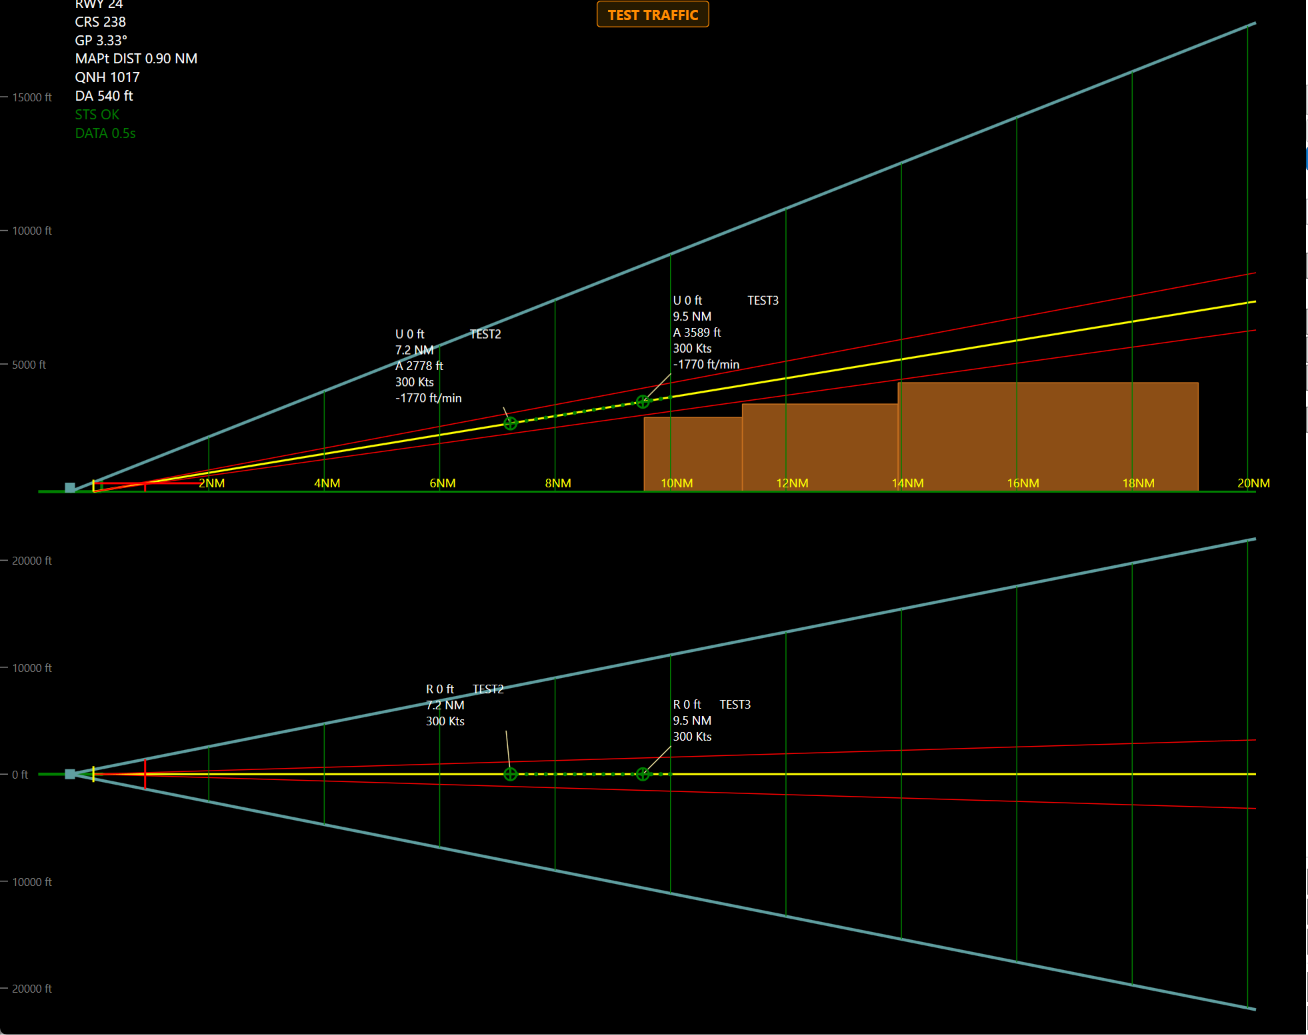
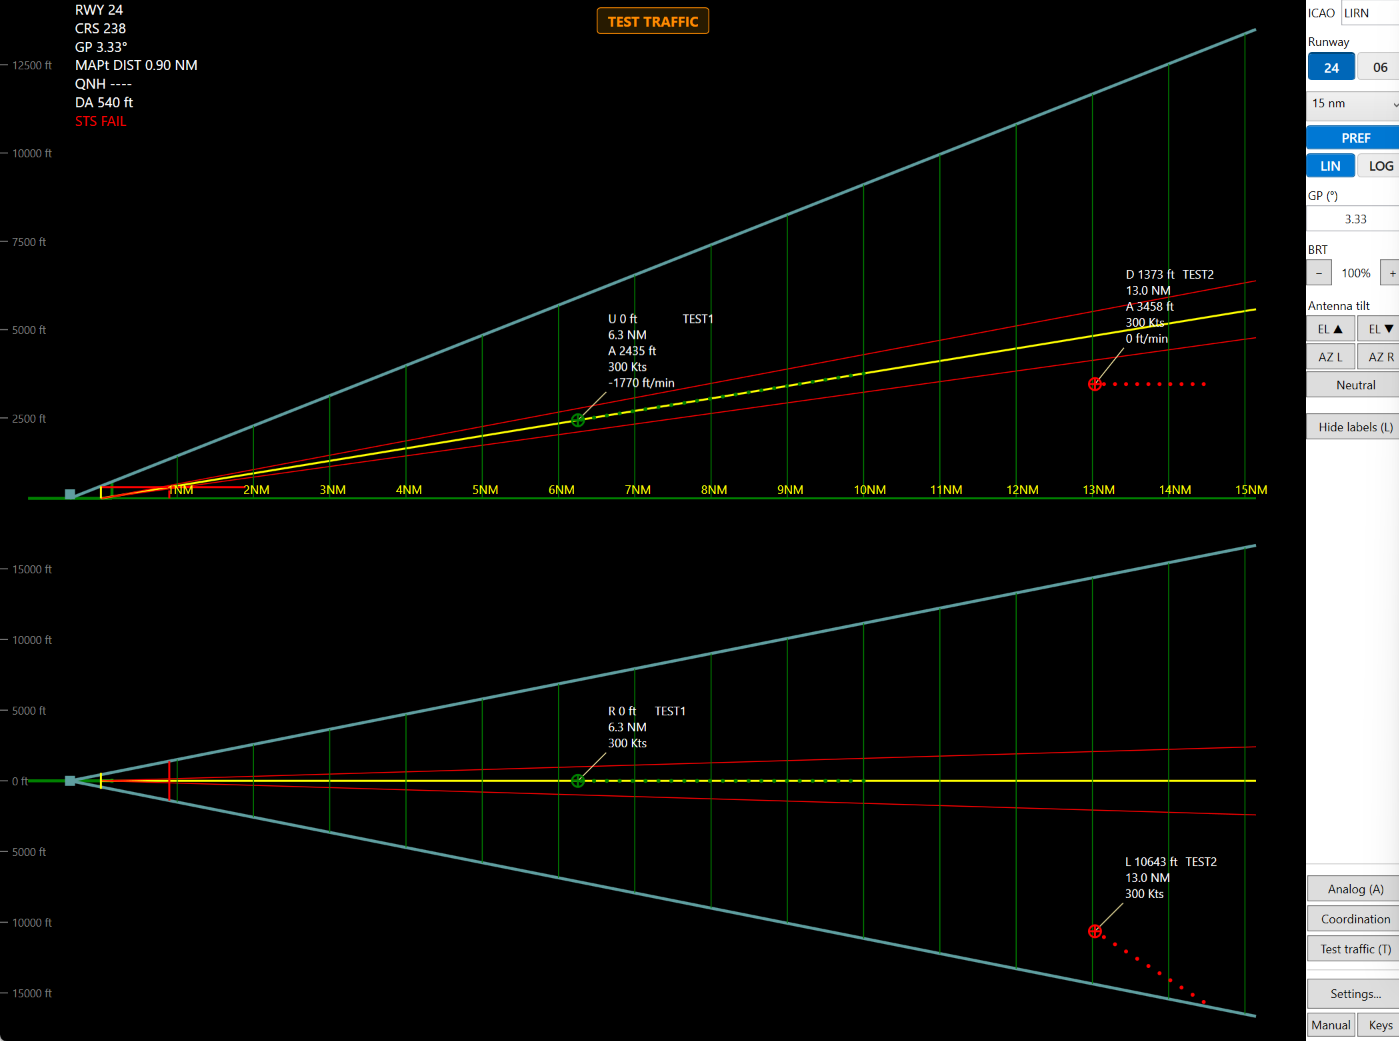
Screenshot: Default profile without terrain
Claude-Session: https://claude.ai/code/session_01HSQGZbwnT9ryhYQGfu89p6

diff --git a/site-draft/index.html b/site-draft/index.html
@@ -155,7 +155,7 @@ footer p{margin:0 0 8px;max-width:60em}
   <p class="sub">Colours, lines, symbols, labels, units, scales, antenna position, console keys: almost everything on the screen is yours to set, and saved in a profile you can share. Nine profiles come with the program, from a plain modern display to old analog scopes. Press <span class="key">P</span> to switch between them.</p>
   <div class="gal">
     <figure class="gal-main">
-      <img id="gal-img" src="images/profile-default.png" alt="Default profile" width="1308" height="1035">
+      <img id="gal-img" src="images/profile-default.png" alt="Default profile" width="1399" height="1041">
       <figcaption><b id="gal-name">Default</b> <span id="gal-text">A plain modern display, the starting point for your own.</span></figcaption>
     </figure>
     <div class="thumbs">
